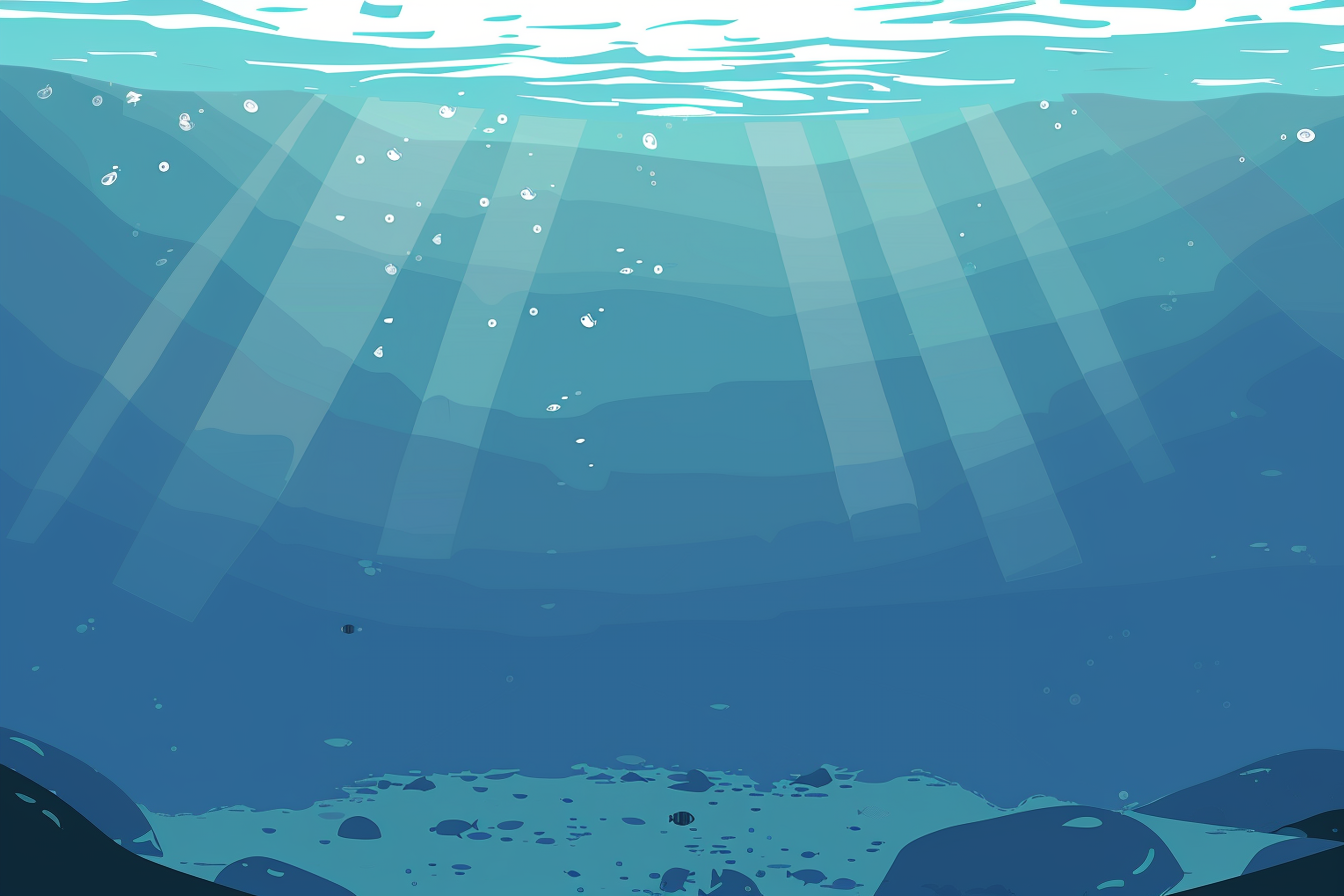
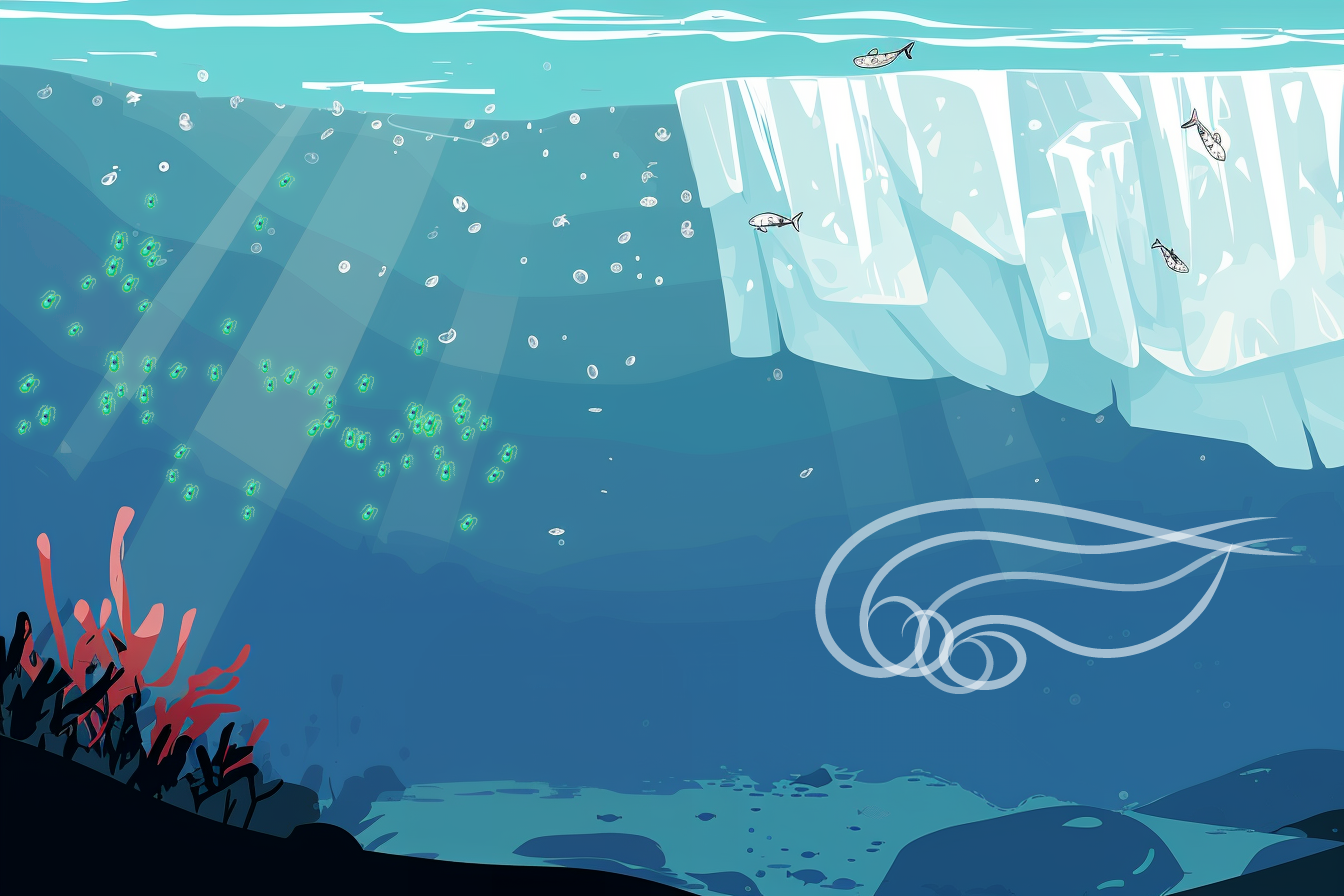
change image and add clickable zone

diff --git a/style.css b/style.css
@@ -28,3 +28,50 @@
 .answer:hover, .answer:focus {
     background-color: #043598 !important;
 }
+#plankton{
+    top: 20%;
+    width: 40%;
+    height: 40%;
+    position: relative;
+    border-radius: 20%;
+}
+#plankton:hover{
+    background-color: green;
+    opacity: 30%;
+}
+#stream:hover{
+    background-color: blue;
+    opacity: 30%;
+}
+#coral:hover{
+    background-color: red;
+    opacity: 30%;
+}
+#ice:hover{
+    background-color: white;
+    opacity: 30%;
+}
+#coral{
+    top: -50%;
+    width: 25%;
+    height: 40%;
+    position: relative;
+    border-radius: 20%;
+}
+#stream{
+    top:10%;
+    left: 58%;
+    width: 40%;
+    height: 30%;
+    position: relative;
+    border-radius: 20%;
+}
+#ice{
+    top:-62%;
+    left: 50%;
+    width: 50%;
+    height: 40%;
+    position: relative;
+    border-radius: 20%;
+}
+

diff --git a/index.html b/index.html
@@ -42,7 +42,12 @@
             <button class="btn text-center answer" data-number="3">Cerveau</button>
         </div>
         <div class="d-flex justify-content-around align-items-center">
-            <div id="img" class="border border-info border-2 rounded-3 mb-4"></div>
+            <div id="img" class="border border-info border-2 rounded-3 mb-4">
+                <div id="plankton"></div>
+                <div id="stream"></div>
+                <div id="ice"></div>
+                <div id="coral"></div>
+            </div>
             <div>
 
                 <svg xmlns="http://www.w3.org/2000/svg" width="147" height="392" viewBox="0 0 147 392" fill="none">
